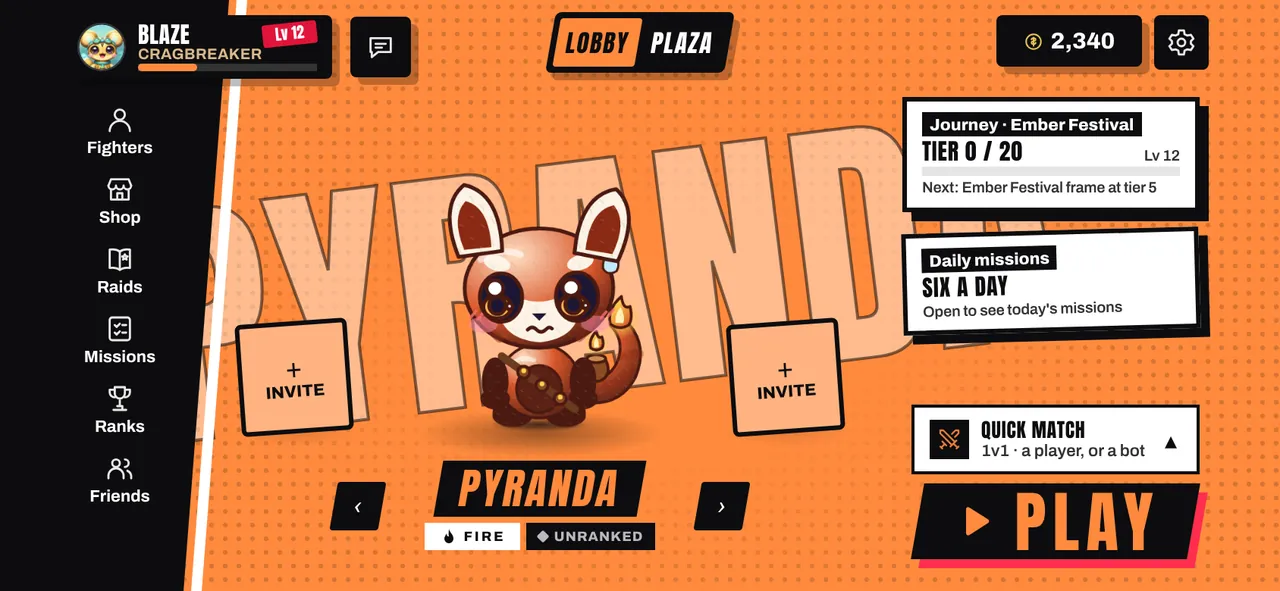
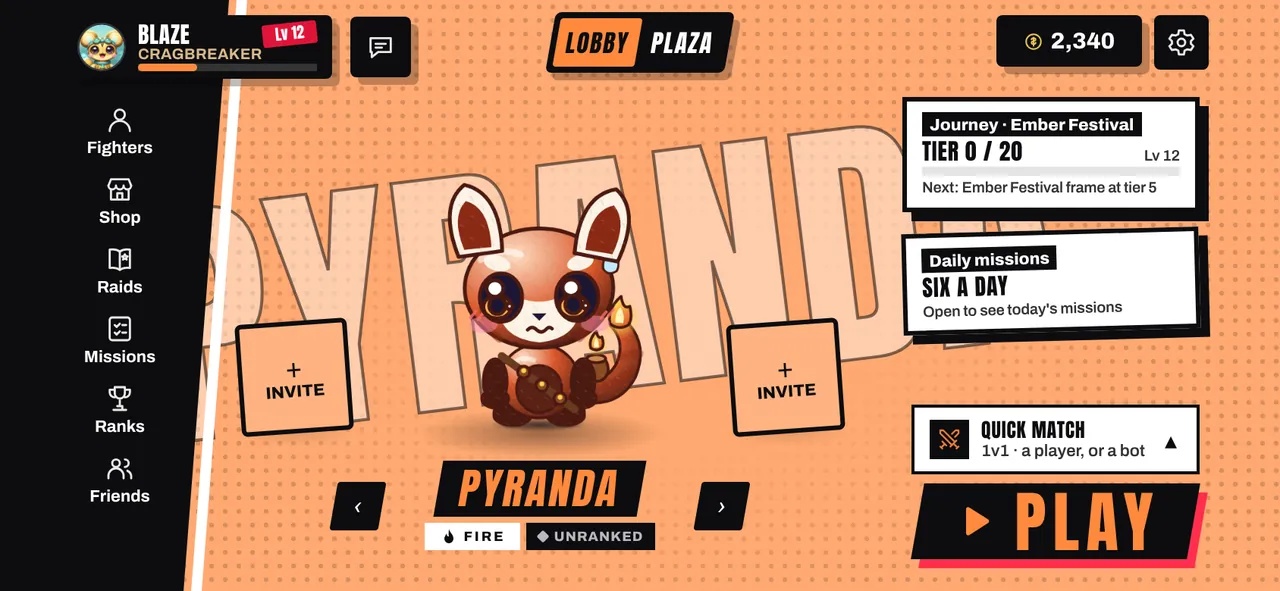
Poster: whole-screen fields of the element colour softened toward cream; mastheads, words and accents unchanged (owner's pick, H2)
Claude-Session: https://claude.ai/code/session_01GGURqR45YmsjL8gH5XjFkn

diff --git a/tests/visual/poster.spec.ts b/tests/visual/poster.spec.ts
@@ -530,3 +530,81 @@ for (const size of [
     }
   });
 }
+
+// A whole-screen field of the fighter's colour is softened, 30% of the way
+// to a cream paper (--el-soft; owner, 27 Nov 2026: "a little paler, so it
+// isn't so loud; only the background"). The Lobby's field takes it; a
+// masthead, the open rail block and PLAY's word keep the colour at full
+// strength.
+test("Poster: the Lobby's field is the fighter's colour softened; mastheads keep it whole", async ({
+  browser,
+}, info) => {
+  test.setTimeout(90_000);
+  const context = await browser.newContext({
+    viewport: { width: 844, height: 390 },
+    isMobile: true,
+    hasTouch: true,
+  });
+  try {
+    const page = await context.newPage();
+    await skipTour(page);
+    // Tidefin: Water's cyan, which a mix in oklch bent toward green.
+    await page.addInitScript(() =>
+      localStorage.setItem("arena-featured-fighter", "tidefin"),
+    );
+    await withPoster(page);
+    const errors = await openHub(page);
+    await page.evaluate(() => document.fonts.ready);
+    await hubMenu(page, "missions");
+    await expect(page.locator(".ui-panel-head").last()).toBeVisible();
+    await page.waitForTimeout(600);
+    await page.mouse.move(600, 380);
+    const colours = await page.evaluate(() => {
+      const paint = document.createElement("canvas").getContext("2d", {
+        willReadFrequently: true,
+      })!;
+      paint.canvas.width = paint.canvas.height = 1;
+      // Through a canvas: computed colours can be oklch() or color-mix().
+      const rgb = (c: string) => {
+        paint.clearRect(0, 0, 1, 1);
+        paint.fillStyle = "#000";
+        paint.fillStyle = c;
+        paint.fillRect(0, 0, 1, 1);
+        return Array.from(paint.getImageData(0, 0, 1, 1).data.slice(0, 3));
+      };
+      const el = getComputedStyle(document.documentElement)
+        .getPropertyValue("--el")
+        .trim();
+      const bg = (sel: string, pseudo?: string) =>
+        rgb(
+          getComputedStyle(document.querySelector(sel)!, pseudo)
+            .backgroundColor,
+        );
+      return {
+        el: rgb(el),
+        soft: rgb(`color-mix(in oklab, ${el} 70%, #f4ead5)`),
+        field: bg(".lobby-layer"),
+        head: bg(".ui-panel-head"),
+        rail: bg('.lobby-rail [data-lobby-action="missions"]', "::before"),
+        play: rgb(
+          getComputedStyle(document.querySelector(".lobby-play-button")!).color,
+        ),
+      };
+    });
+    const near = (a: number[], b: number[]) =>
+      a.every((v, i) => Math.abs(v - b[i]) <= 1);
+    const where = JSON.stringify(colours);
+    expect(near(colours.field, colours.soft), where).toBe(true);
+    expect(near(colours.field, colours.el), where).toBe(false);
+    // Still the fighter's hue: of Water's cyan, blue stays the strongest
+    // channel and red the weakest.
+    expect(colours.field[2], where).toBeGreaterThan(colours.field[1]);
+    expect(colours.field[1], where).toBeGreaterThan(colours.field[0]);
+    for (const part of [colours.head, colours.rail, colours.play])
+      expect(near(part, colours.el), where).toBe(true);
+    await snap(page, info, "poster-soft-field-844x390");
+    expect(errors).toEqual([]);
+  } finally {
+    await context.close();
+  }
+});

diff --git a/apps/client/src/themes/poster/tokens.css b/apps/client/src/themes/poster/tokens.css
@@ -36,6 +36,14 @@
      at 4.5:1 on the lightest panel ink (--ink-3); lighter colours are
      unchanged. Older browsers keep --el (below). */
   --el-text: var(--el);
+  /* The element colour as a whole-screen field (the Lobby, the raid room,
+     a result sheet): 30% of the way to a cream paper, so a screen full of
+     it is calmer (owner, 27 Nov 2026: "a little paler, so it isn't so
+     loud; only the background"). Mastheads, words and accents keep --el at
+     full strength. Mixed in oklab, a straight line to the cream: in oklch
+     the hue travels an arc and Water's cyan turned green. Older browsers
+     keep --el (below). */
+  --el-soft: var(--el);
   --ui-accent: var(--el-text);
   --ui-accent-hi: var(--el-text);
   --ui-accent-lo: var(--el-text);
@@ -78,6 +86,11 @@
   --scroll-track: var(--ink);
   --scroll-thumb: var(--el);
   --scroll-thumb-light: var(--el);
+}
+@supports (color: color-mix(in oklab, red 70%, white)) {
+  :root[data-ui="poster"] {
+    --el-soft: color-mix(in oklab, var(--el) 70%, #f4ead5);
+  }
 }
 @supports (color: oklch(from red l c h)) {
   :root[data-ui="poster"] {

diff --git a/apps/client/src/themes/poster/screens.css b/apps/client/src/themes/poster/screens.css
@@ -332,7 +332,7 @@
     linear-gradient(100deg, transparent 0 63%, rgba(13, 13, 15, 0) 63%),
     radial-gradient(circle, rgba(0, 0, 0, 0.14) 1.4px, transparent 1.8px) 0 0 /
       9px 9px,
-    var(--el);
+    var(--el-soft);
   color: var(--ink);
 }
 :root[data-ui="poster"]
@@ -349,7 +349,7 @@
 :root[data-ui="poster"]
   body.battle-active
   #arena-overlay#arena-overlay.is-sheet {
-  background: var(--el);
+  background: var(--el-soft);
 }
 :root[data-ui="poster"]
   #arena-overlay#arena-overlay.is-sheet
@@ -989,12 +989,12 @@
 :root[data-ui="poster"] :is(.fit-slot, .fit-slots > *) {
   border-radius: 0;
 }
-/* raid room backdrop: the poster */
+/* raid room backdrop: the poster, softened as the Lobby's field is */
 :root[data-ui="poster"] body.lobby-active .room-screen {
   background:
     radial-gradient(circle, rgba(0, 0, 0, 0.14) 1.4px, transparent 1.8px) 0 0 /
       9px 9px,
-    var(--el);
+    var(--el-soft);
 }
 /* Phones (667–800 px wide, and any phone held sideways): the rail folds to
    icons with small labels. The text rail is 132 px; on an 844 or 852 px

diff --git a/apps/client/src/themes/poster/lobby.css b/apps/client/src/themes/poster/lobby.css
@@ -1,9 +1,10 @@
 /* Poster's Lobby and the hub's top bar: the screen takes the fighter's
-   element colour; an ink slab carries the rail, the fighter's name stands
-   huge and outlined behind it, the cards are white clippings. */
+   element colour, softened as every whole-screen field of it is
+   (--el-soft, tokens.css); an ink slab carries the rail, the fighter's name
+   stands huge and outlined behind it, the cards are white clippings. */
 :root[data-ui="poster"] .lobby-layer {
   --lobby-rail: 132px;
-  background: var(--el);
+  background: var(--el-soft);
   font-family: var(--font-body);
   color: var(--ink);
 }
@@ -14,7 +15,7 @@
   background:
     radial-gradient(circle, rgba(0, 0, 0, 0.16) 1.4px, transparent 1.8px) 0 0 /
       9px 9px,
-    var(--el);
+    var(--el-soft);
   -webkit-mask: none;
 }
 :root[data-ui="poster"] .lobby-layer .lobby-backdrop::before {
@@ -24,7 +25,7 @@
   inset: 0;
   background: radial-gradient(
     48% 60% at 52% 58%,
-    var(--el) 30%,
+    var(--el-soft) 30%,
     transparent 75%
   );
 }

diff --git a/docs/ui-themes.md b/docs/ui-themes.md
@@ -135,6 +135,13 @@ raid room need). Sweep: `tests/visual/poster.spec.ts`.
   `tests/visual/poster-contrast.spec.ts` measures every word on the Lobby,
   the hub's screens and Settings in each element colour, against the pixels
   really under it.
+- **Whole-screen fields are softened** (owner, 27 Nov 2026): the Lobby's
+  field, the raid room's backdrop and a result sheet's field are
+  `--el-soft`, the element colour 30% of the way to a cream paper
+  (`color-mix(in oklab, var(--el) 70%, #f4ead5)`), so a screen full of it is
+  calmer. Mastheads, words and accents keep `--el` whole. The mix is in
+  oklab, a straight line to the cream: in oklch the hue travels an arc and
+  Water's cyan turned green. A browser without `color-mix` keeps `--el`.
 - Inside a Fighters card `--el` is that card's element colour
   (`roster-view.ts` sets it), not the Lobby fighter's.
 - One screen, one file: `screens.css` has the title screen, the countdown
